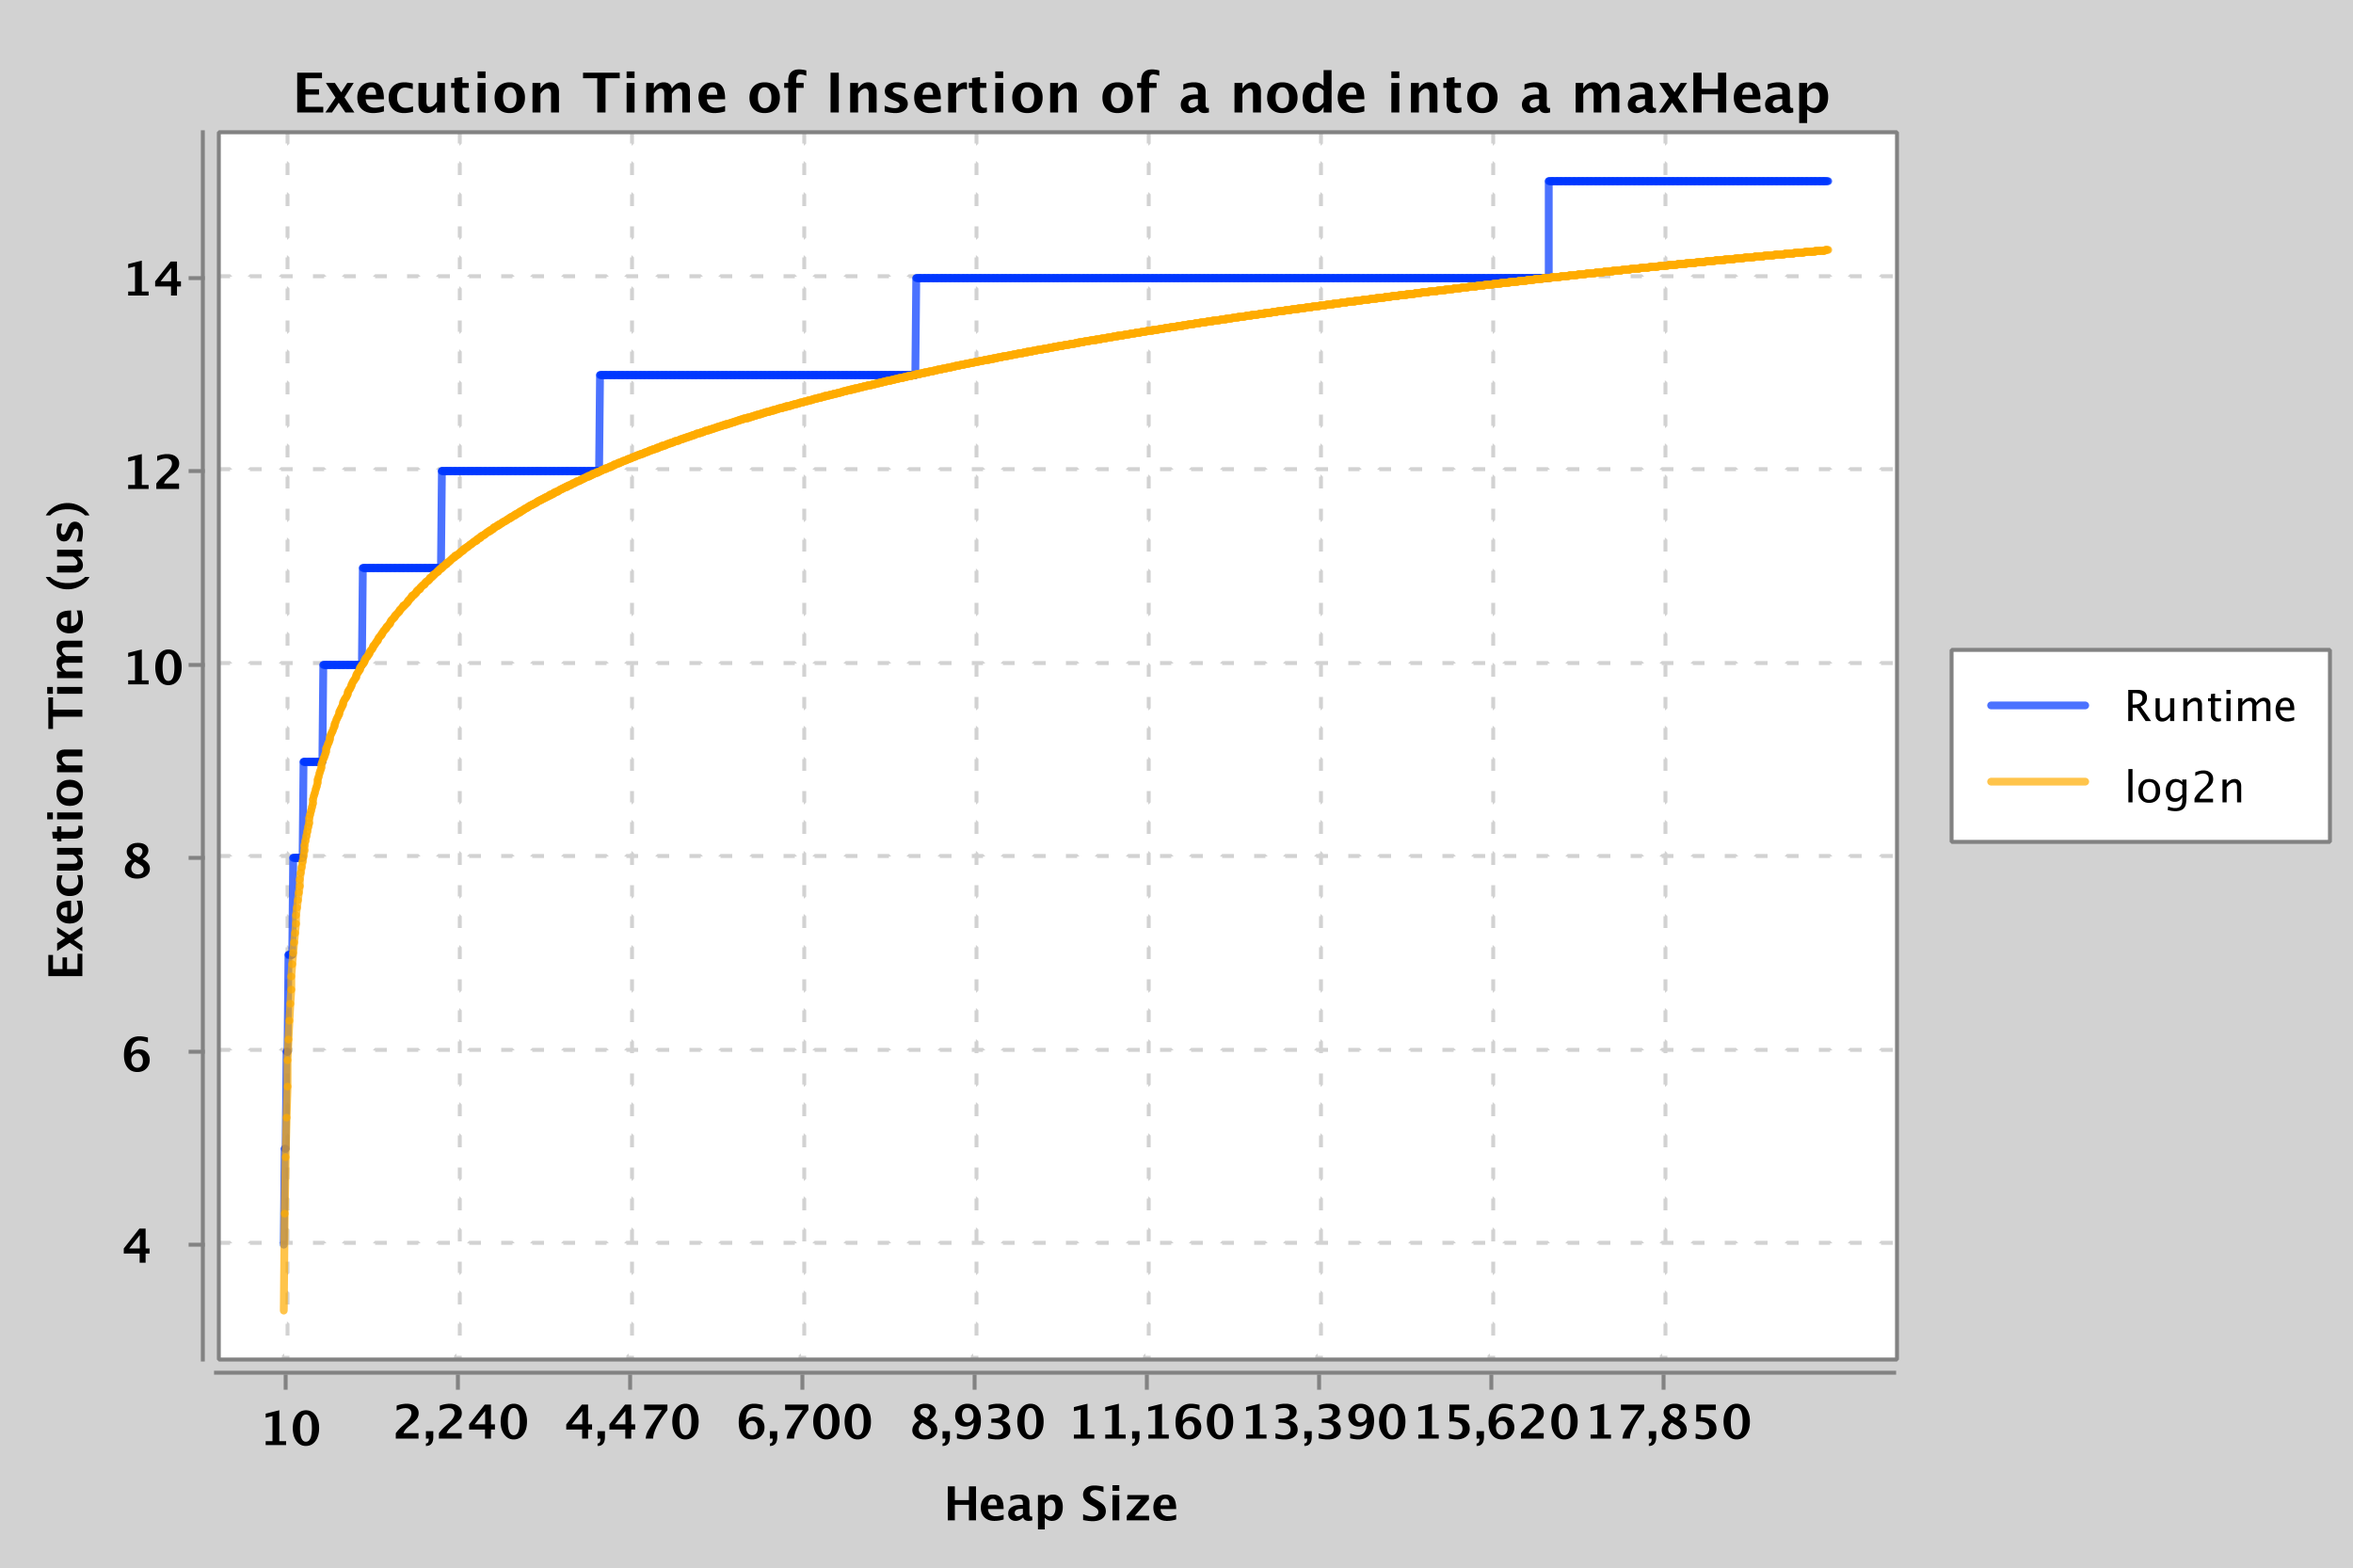
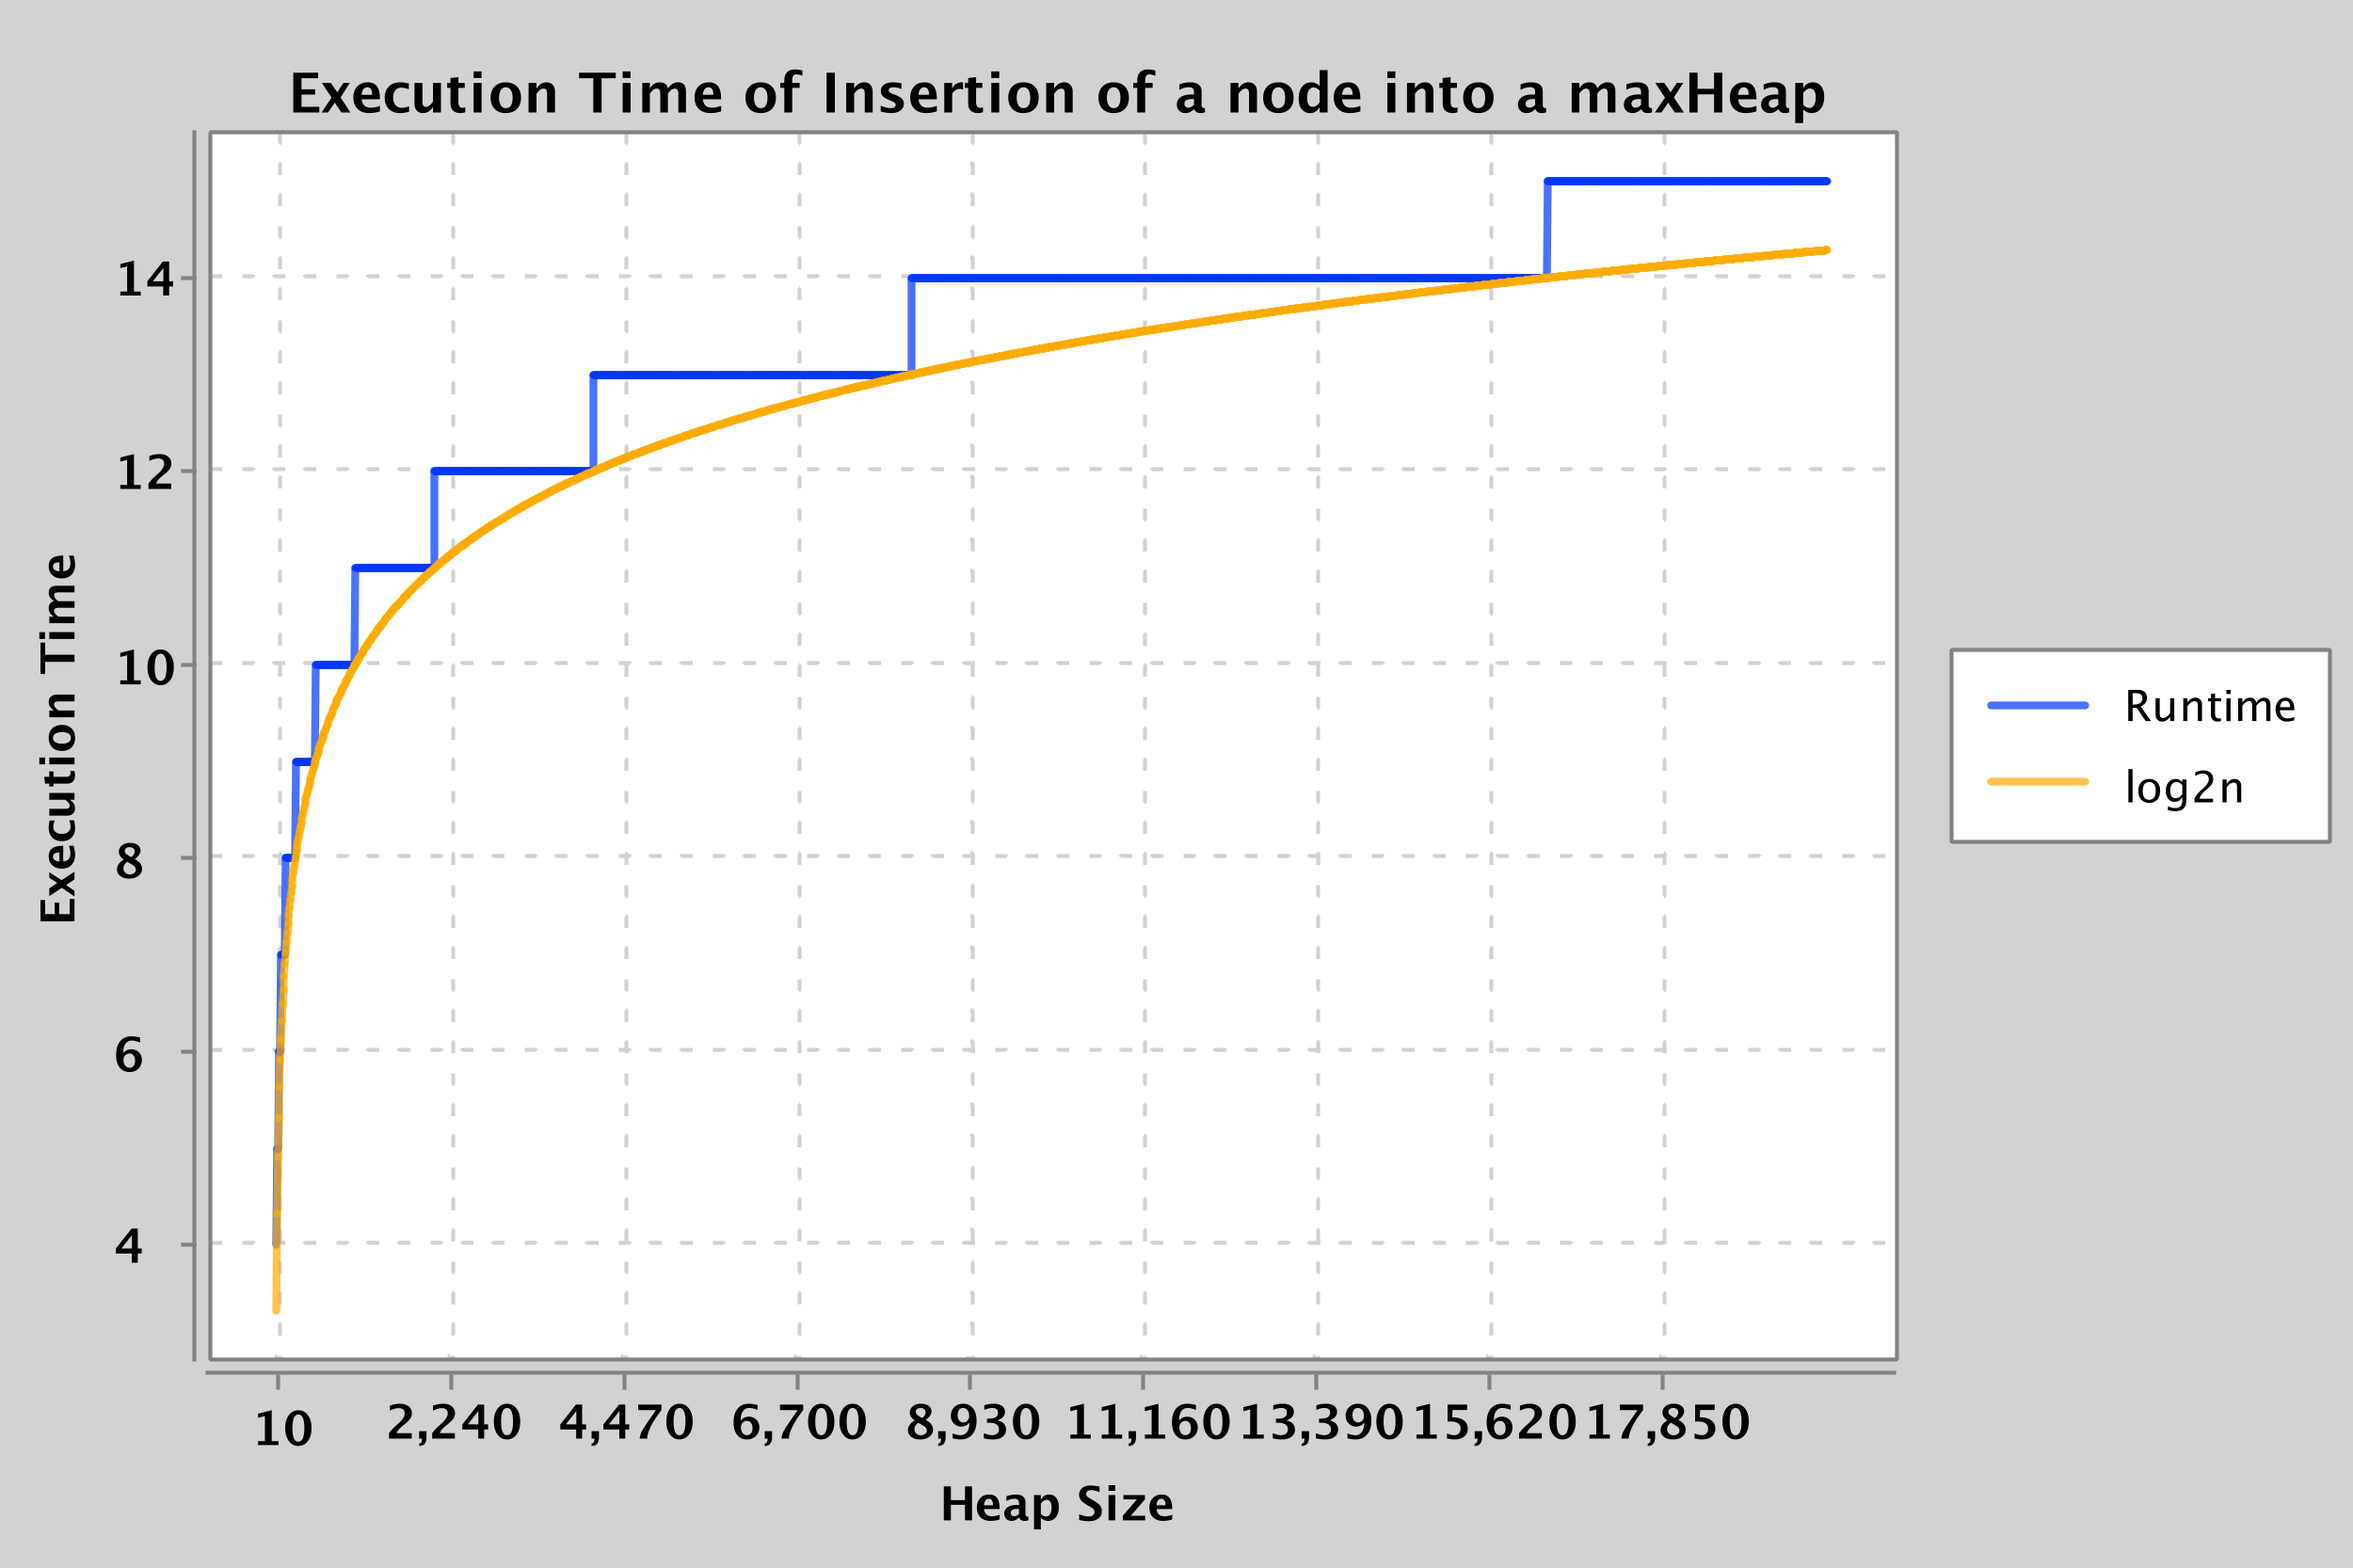
submission

diff --git a/myproject/src/Heapsort.java b/myproject/src/Heapsort.java
@@ -1,46 +1,61 @@
 public class Heapsort{
-    public int[] startingArray;
-    public int size;
-    Heapsort(int[] startingArray) {
-        this.size = startingArray.length;
-        this.startingArray = startingArray;
-    }
+
     public static void main(String[] args){
-        int[] h1 = {16,14,10,8,7,9,3,2,15,1};
-        Heapsort heap1 = new Heapsort(h1);
-        int[] h2 = heap1.insert(h1,19);
-        print(h2);
+
+        int[]edge1= {16,16,15,15,14,10,8,8,7,9,3,2,4,1,1,1};
+        int[]edge2 = {16,16,16,16,16,16,16,16,16,8};
+        int[]general = {16,14,10,8,7,9,3,2,4,1};
+        heapSort(edge2);
+
 
     }
     public static void print(int[] A){
         String s = "";
         for (int E : A){
-            s += E + ", ";
+            s += E + " ";
         }
+
         System.out.println(s);
     }
-    public static void sort(int[] A) {
-        buildMaxHeap(A);
+    public static void heapSort(int[] A) {
+        buildMaxHeap(A); //first build a max heap
         int size = A.length;
         //iterate (size - 1 ) times
-        for (int i = size; i > 1; i--) {
-            int lastnode = A[size - 1];int firstnode = A[0];
-            A[size - 1] = firstnode; A[0] = lastnode; //store head to last spot in the array
+        for (int i = size; i >= 2; i--) {
+            int i2 = i + 1;
+            if (i == A.length) {
+                System.out.println("At initiation, maxheap is A[1..." + i + "] and the second subarray is empty.");
+            } else if (i == A.length - 1) {
+                System.out.println("At beginning of an interation during maintainence, " +
+                        "maxheap is A[1..." + i + "] and the second subarray is A[" + i2 + "].");
+            } else if (i == 2) {
+                System.out.println("At termination, before execution, maxheap is now of size 2");
+            } else {
+                System.out.println("At beginning of an interation during maintainence, " +
+                        "maxheap is A[1..." + i + "] and the second subarray is A[" + i2 + "..." + A.length + "].");
+            }
+
             print(A);
+            int lastnode = A[size - 1];
+            int firstnode = A[0];
+            A[size - 1] = firstnode;
+            A[0] = lastnode; //store head to last spot in the array
             size -= 1;
-            maxHeapify(A, 1,size);
+            maxHeapify(A, 1, size); //call on the new root
+            if (i == 2) {
+                System.out.println("At termination, after execution, the array is now sorted.");
+                print(A);
+            }
         }
     }
     public static void buildMaxHeap(int[] A) {
         for (int i = A.length / 2; i >= 1; i--) {
-            System.out.println("building heap at node = " +i);
             maxHeapify(A, i, A.length);
         }
-        print(A);
     }
 
     public static void maxHeapify(int[] A, int node, int size) {
-        System.out.println("calling maxHeapify(A," + node + ")");
+        //System.out.println("calling maxHeapify(A," + node + ")");
 
         int left = 2 * node;
         int right = 2 * node + 1;
@@ -62,7 +77,6 @@ public class Heapsort{
         if (largest != node) {
             int parent = A[node - 1]; int largechild = A[largest-1];
             A[node - 1] = largechild; A[largest - 1] = parent;
-            print(A);
             maxHeapify(A, largest,size); //call again to see if large child has bigger children
 
         }

diff --git a/myproject/src/ComplexityProof.java b/myproject/src/ComplexityProof.java
@@ -62,7 +62,6 @@ public class ComplexityProof {
         int largest = n;
         int heapsize =  n;
         ArrayList<Integer> A = new ArrayList<>();
-
         for (int i = 0; i < heapsize; i++){
             A.add(i+1);
 
@@ -71,7 +70,8 @@ public class ComplexityProof {
 
     }
 
-
+//returns the number of times traversing up to the correct spot
+    //returns the length of path
     public static int increaseKey(ArrayList<Integer> A, int i, int key){
         if (key < A.get(i)){
             return 0;
@@ -83,7 +83,6 @@ public class ComplexityProof {
             //exchange A[i] with parent
             count += 1;
             int temp = A.get(i/2);
-            //System.out.println("temp is now " + temp);
             A.remove(i/2);
             A.add((i/2), key);
             A.remove(i);
@@ -92,13 +91,11 @@ public class ComplexityProof {
 
         }
         return count;
-
     }
 
     //returns the number of times going up the nodes
     //until finding the correct place for the key
     public static int insert(ArrayList<Integer> A, int key){
-
         int count = 0;
         A.add(-10000);
         count = increaseKey(A,A.size()-1,key);
@@ -114,7 +111,6 @@ public class ComplexityProof {
         ArrayList<Integer> A = generateArrayList(n);
         buildMaxHeap(A);
         int key = A.get(0) + 1;
-
         return insert(A, key);
     }
 
@@ -122,32 +118,21 @@ public class ComplexityProof {
     // runs the algorithm on 2000 samples incrementing 10 in heapsize
     public static void main(String[] args) {
         // number of sample executions
-
-        ArrayList<Integer> array = new ArrayList<>();
-        array = generateArrayList(10);
-        System.out.println(array);
-        buildMaxHeap(array);
-        System.out.println(array);
-        insert(array,15);
-        System.out.println(array);
-
-
         int samples = 2000;
 
         double[] execution_times = new double[samples];
-        double[] ns = new double[samples];
+        double[] ns = new double[samples];//size of heaps
         int n =0;
         for (int i=0; i<samples; i++) {
             n += 10;
-            // run bellman ford on a random graph with n vertices and 2n edges
+            // run insertion in a heap with size = n
             execution_times[i] = runInsertion(n);
             ns[i] = n;
-
-
         }
 
         // create chart
-        XYChart chart = QuickChart.getChart("Execution Time of Insertion of a node into a maxHeap", "Heap Size", "Execution Time (us)", "Runtime", ns, execution_times);
+        XYChart chart = QuickChart.getChart("Execution Time of Insertion of a node into a maxHeap",
+                "Heap Size", "Execution Time", "Runtime", ns, execution_times);
         double[] n2s = new double[samples];
         // add reference quadratic
         for (int i=0; i<samples; i++) {
